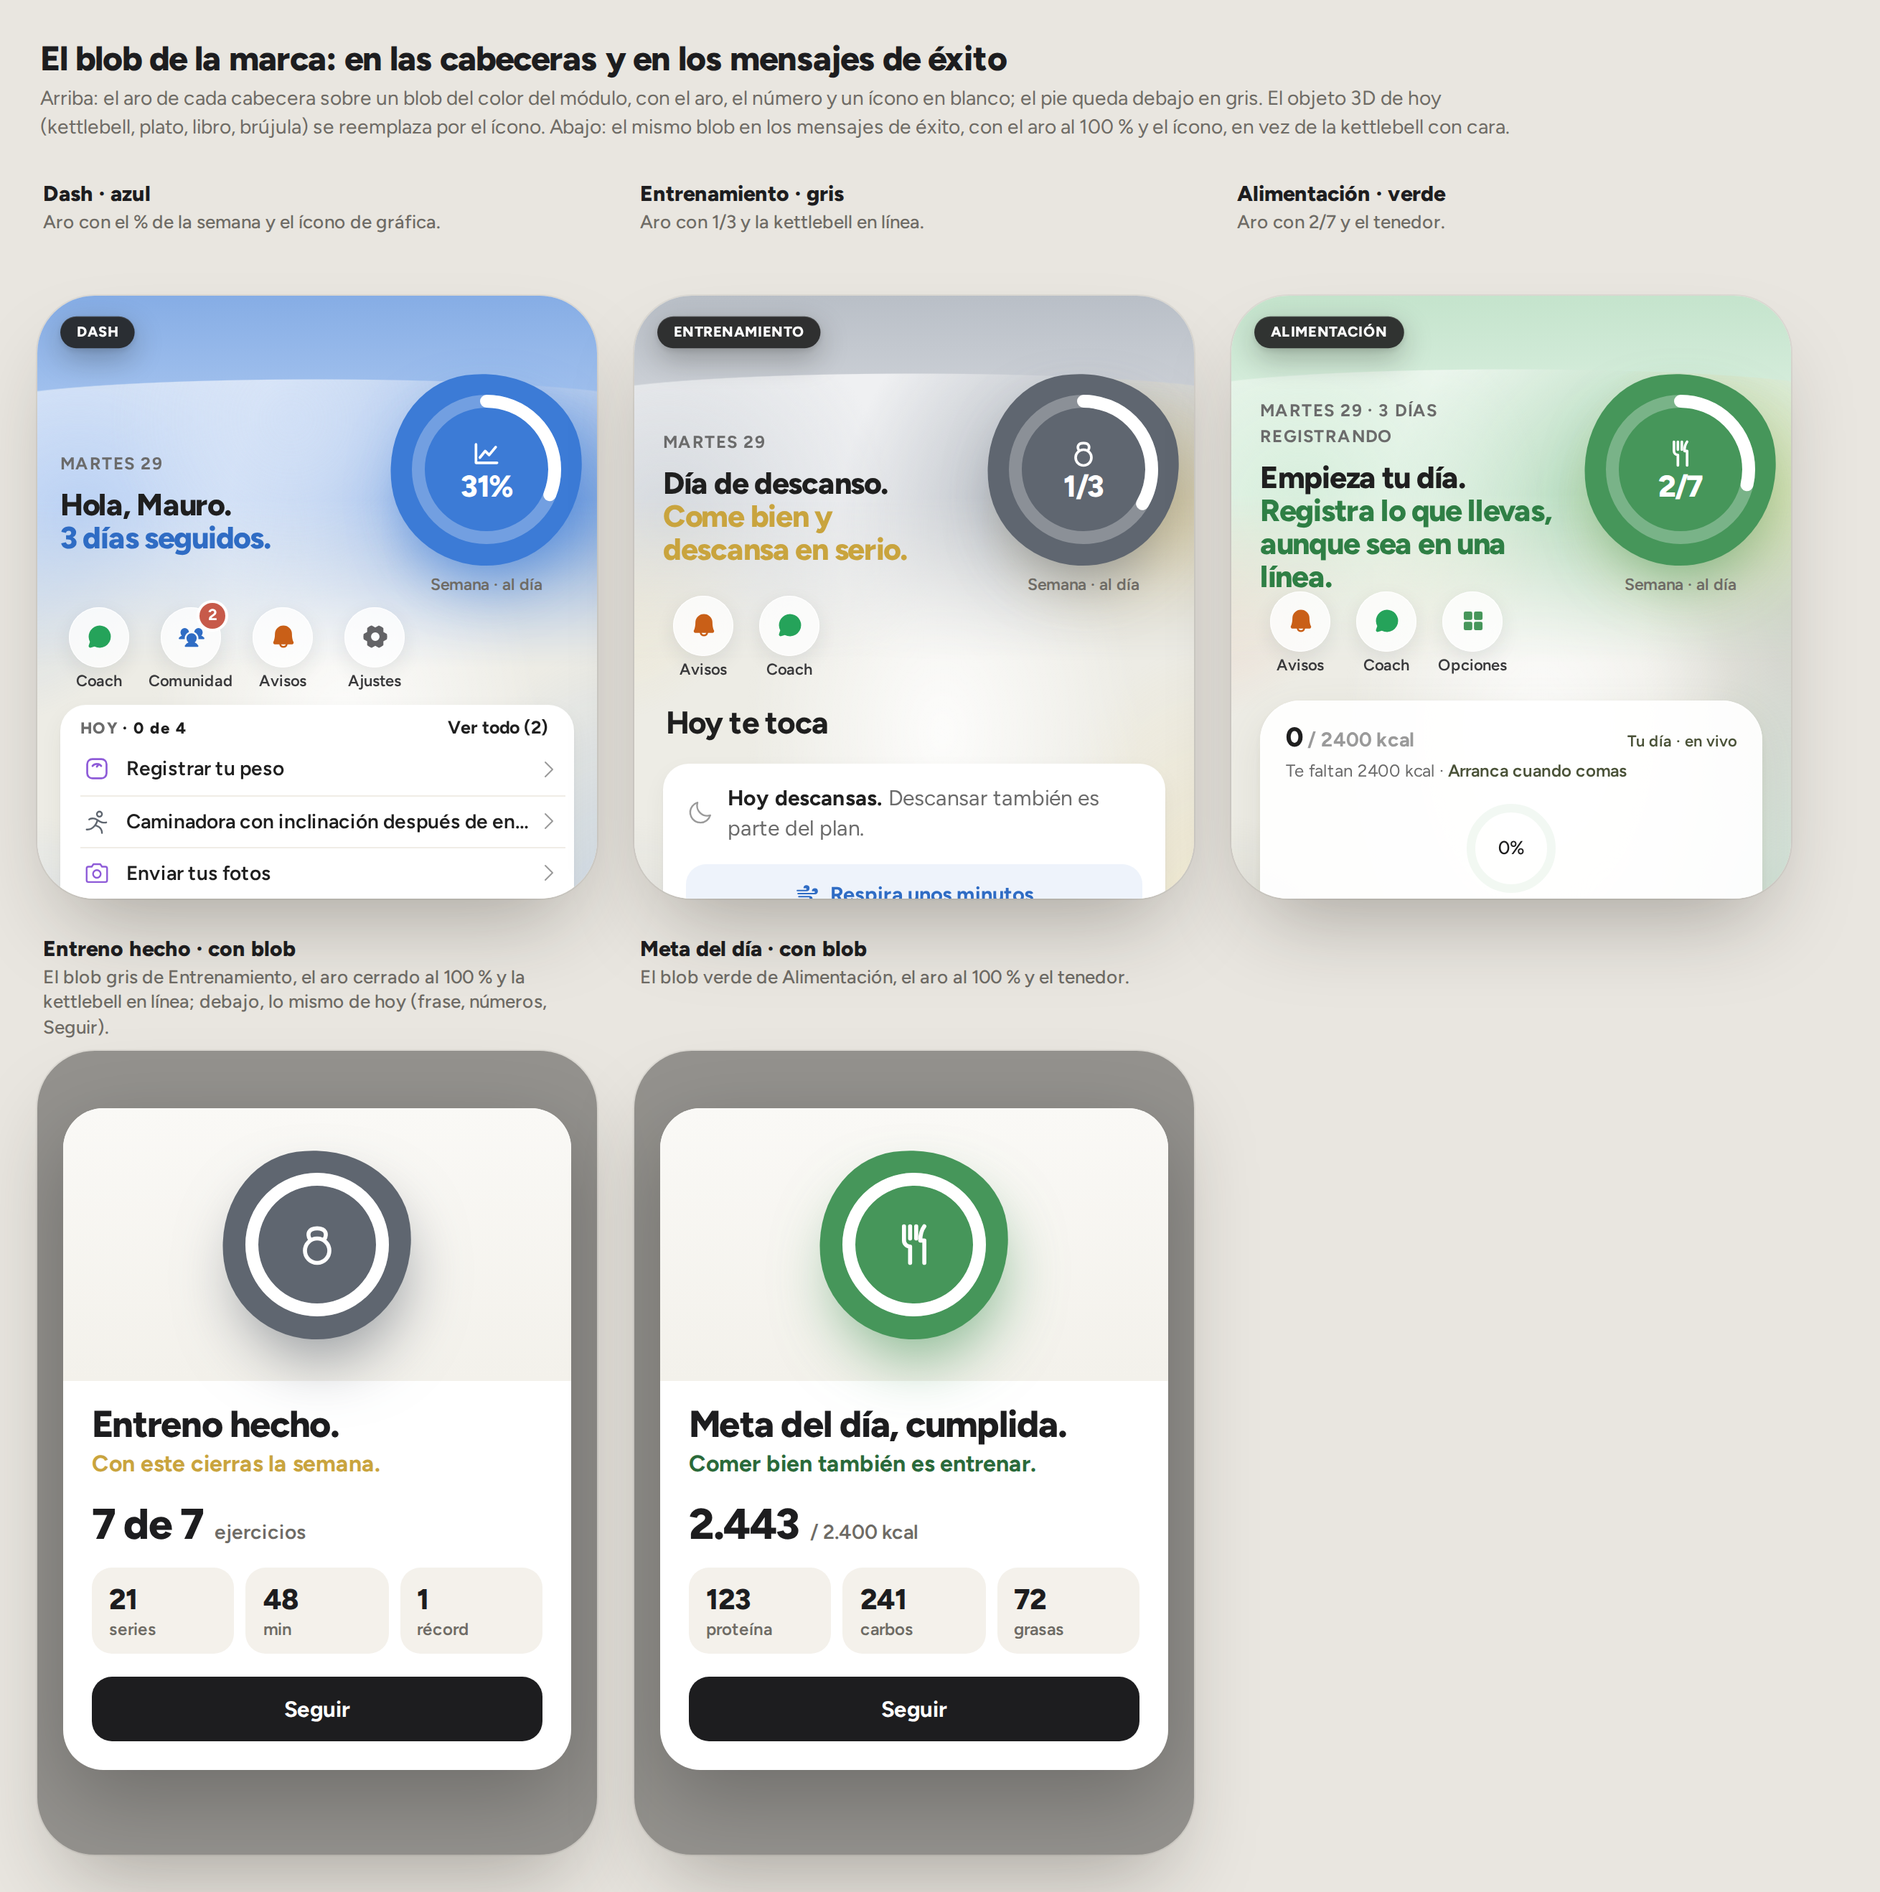
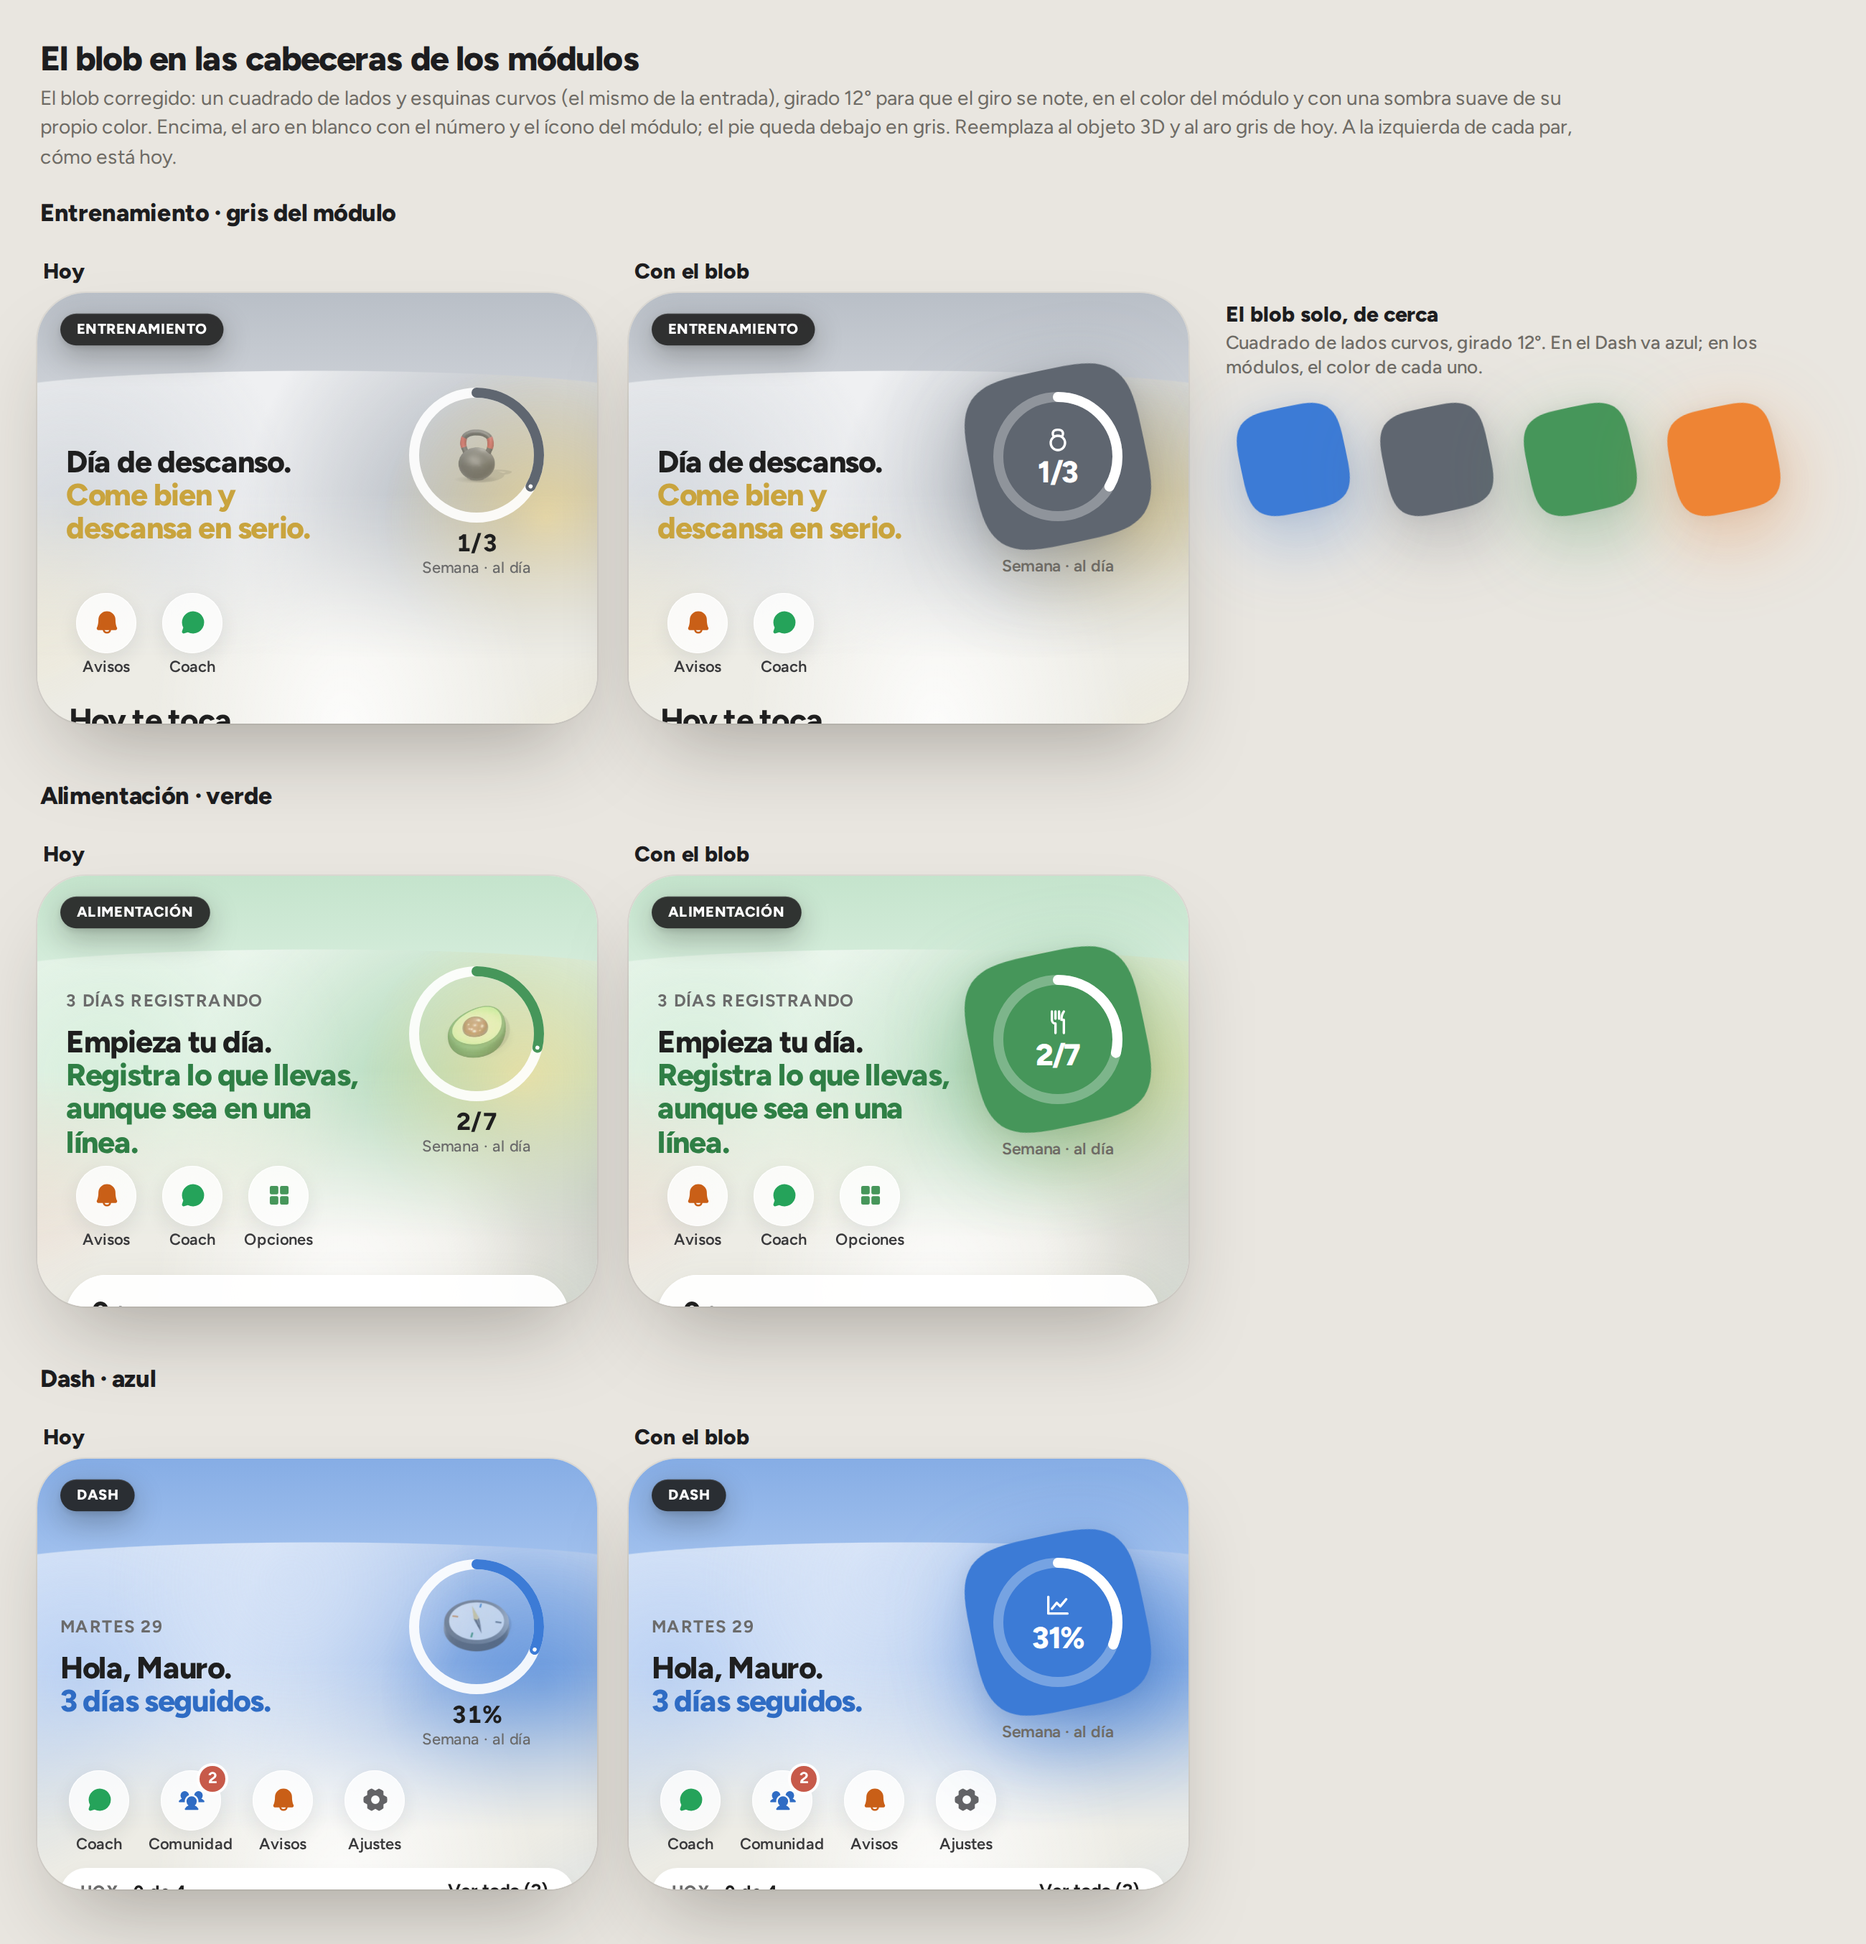
Fecha solo en la cabecera del Dash; blob de la entrada como cuadrado curvo girado 12°; propuesta del blob en cabeceras
Claude-Session: https://claude.ai/code/session_017q9eB3jcU4JAqbgUHmF9x1

diff --git a/index.html b/index.html
@@ -285,13 +285,11 @@
       #splash2 .m3 { background: radial-gradient(closest-side, rgba(70,150,90,.42), rgba(70,150,90,0)); border-radius: 44% 56% 58% 42% / 52% 48% 52% 48%; --x: -160px; --y: 330px; --s: 1.25; }
       #splash2 .m4 { background: radial-gradient(closest-side, rgba(238,132,52,.4), rgba(238,132,52,0)); border-radius: 52% 48% 46% 54% / 44% 56% 46% 54%; --x: 165px; --y: 300px; --s: 1.15; }
       #splash2 .velo { position: absolute; inset: 0; opacity: 0; background: radial-gradient(70% 38% at 50% var(--centro, 46%), rgba(255,255,255,.92), rgba(255,255,255,0) 70%); }
-      /* Detrás del ícono: un blob blanco (cuadrado de esquinas muy redondas,
-         un poco girado), sólido y con sombra suave, en vez del círculo. */
-      #splash2 .disco { position: absolute; left: 50%; top: var(--centro, 46%); width: 180px; height: 180px; margin: -90px 0 0 -90px;
-        border-radius: 46% 54% 50% 50% / 52% 46% 54% 48%;
-        background: #FFFFFF;
-        box-shadow: 0 24px 50px rgba(30,30,40,.16), 0 4px 12px rgba(30,30,40,.06);
-        opacity: 0; transform: rotate(-8deg) scale(.55); will-change: transform, opacity; }
+      /* Detrás del ícono: el blob de la marca, un cuadrado de lados y
+         esquinas curvos (superelipse) girado 12°, blanco y con sombra suave. */
+      #splash2 .disco { position: absolute; left: 50%; top: var(--centro, 46%); width: 184px; height: 184px; margin: -92px 0 0 -92px; overflow: visible;
+        filter: drop-shadow(0 22px 34px rgba(30,30,40,.14)) drop-shadow(0 3px 8px rgba(30,30,40,.05));
+        opacity: 0; transform: rotate(-12deg) scale(.55); will-change: transform, opacity; }
       #splash2 .escena3d { position: absolute; left: 50%; top: var(--centro, 46%); width: 120px; height: 120px; margin: -60px 0 0 -60px; perspective: 500px; }
       #splash2 .marca { width: 120px; height: 120px; overflow: visible; opacity: 0; }
       #splash2 .traza { stroke-dasharray: 100 100; stroke-dashoffset: 100; }
@@ -322,7 +320,7 @@
       @keyframes s2sale { 0% { opacity: 0; transform: translate(0, 0) scale(.12); } 18% { opacity: 1; } 55% { transform: translate(calc(var(--x) * .7), calc(var(--y) * .7)) scale(calc(var(--s) * 1.08)); } 100% { opacity: 1; transform: translate(var(--x), var(--y)) scale(var(--s)); } }
       @keyframes s2respira { from { opacity: 1; transform: translate(var(--x), var(--y)) scale(var(--s)); } to { opacity: 1; transform: translate(var(--x), var(--y)) scale(calc(var(--s) * 1.08)); } }
       @keyframes s2aparece { to { opacity: 1; } }
-      @keyframes s2disco { to { opacity: 1; transform: rotate(-8deg) scale(1); } }
+      @keyframes s2disco { to { opacity: 1; transform: rotate(-12deg) scale(1); } }
       @keyframes s2traza { to { stroke-dashoffset: 0; } }
       @keyframes s2pop { to { transform: scale(1); } }
       @keyframes s2halo { 0% { transform: scale(.6); opacity: .7; } 100% { transform: scale(2.6); opacity: 0; } }
@@ -370,7 +368,7 @@
       <div class="escena">
         <div class="remolino"><div class="m m1"></div><div class="m m2"></div><div class="m m3"></div><div class="m m4"></div></div>
         <div class="velo"></div>
-        <div class="disco"></div>
+        <svg class="disco" viewBox="0 0 200 200" aria-hidden="true"><path fill="#FFFFFF" d="M200.0 100.0L199.8 127.7L199.2 139.8L198.2 149.1L196.8 156.9L195.0 163.6L192.7 169.4L190.0 174.6L186.9 179.2L183.3 183.3L179.2 186.9L174.6 190.0L169.4 192.7L163.6 195.0L156.9 196.8L149.1 198.2L139.8 199.2L127.7 199.8L100.0 200.0L72.3 199.8L60.2 199.2L50.9 198.2L43.1 196.8L36.4 195.0L30.6 192.7L25.4 190.0L20.8 186.9L16.7 183.3L13.1 179.2L10.0 174.6L7.3 169.4L5.0 163.6L3.2 156.9L1.8 149.1L0.8 139.8L0.2 127.7L0.0 100.0L0.2 72.3L0.8 60.2L1.8 50.9L3.2 43.1L5.0 36.4L7.3 30.6L10.0 25.4L13.1 20.8L16.7 16.7L20.8 13.1L25.4 10.0L30.6 7.3L36.4 5.0L43.1 3.2L50.9 1.8L60.2 0.8L72.3 0.2L100.0 0.0L127.7 0.2L139.8 0.8L149.1 1.8L156.9 3.2L163.6 5.0L169.4 7.3L174.6 10.0L179.2 13.1L183.3 16.7L186.9 20.8L190.0 25.4L192.7 30.6L195.0 36.4L196.8 43.1L198.2 50.9L199.2 60.2L199.8 72.3Z"/></svg>
         <!-- El ícono de la app: la línea de la gráfica es el cuerpo de la
              kettlebell, con el asa encima y el punto amarillo en la punta. -->
         <div class="escena3d"><svg class="marca" viewBox="0 0 512 512" fill="none" aria-hidden="true"><defs>

diff --git a/src/vozCoach.js b/src/vozCoach.js
@@ -102,8 +102,9 @@ const nombreParaFrase = (n) => {
 
 export function vozEntreno({ plan, hoy }) {
   const fase = plan && plan.fase;
-  // Solo el día: el «Semana 3 de 8» se quitó de todas las secciones.
-  const etiqueta = etiquetaDia(hoy);
+  // Sin etiqueta de fecha: el día ya se ve en el Dash; repetirlo en cada
+  // módulo sobra.
+  const etiqueta = undefined;
   if (!plan || !plan.ok || !fase) {
     return { etiqueta, a: 'Tu plan viene en camino.' };
   }
@@ -150,7 +151,8 @@ const VAS_BIEN = [
 // `hora` en 0–23. `kcal` lo comido hoy, `meta` la meta del día, `comidas`
 // cuántas registró hoy y `racha` los días seguidos registrando.
 export function vozComida({ hoy, hora, kcal = 0, meta = 0, comidas = 0, racha = 0 }) {
-  const etiqueta = etiquetaDia(hoy, racha >= 3 ? `${racha} días registrando` : '');
+  // Sin la fecha (ya está en el Dash); solo la racha, cuando la hay.
+  const etiqueta = racha >= 3 ? `${racha} días registrando`.toUpperCase() : undefined;
   if (!meta) return { etiqueta, a: 'Así va tu día.', b: delDia(V.sinMeta, hoy) };
   if (!comidas || kcal <= 0) {
     if (hora < 11) return { etiqueta, a: 'Buen día.', b: delDia(V.desayuno, hoy) };
@@ -177,7 +179,7 @@ const APRENDER = [
 
 // `avance`: undefined (cargando), null (sin datos) o { pct, vistas, total }.
 export function vozAprende({ hoy, avance, quedan = 0 }) {
-  const etiqueta = etiquetaDia(hoy);
+  const etiqueta = undefined; // la fecha solo va en el Dash
   if (!avance) return { etiqueta, a: 'Tu aprendizaje.', b: delDia(APRENDER, hoy, 4) };
   if (avance.total && avance.vistas >= avance.total && !quedan) {
     return { etiqueta, a: 'Ya viste todo.', b: 'Lo nuevo aparece aquí primero.' };

diff --git a/src/CabeceraHoy.jsx b/src/CabeceraHoy.jsx
@@ -129,7 +129,7 @@ export default function CabeceraHoy({ tema = 'entreno', voz, titulo, firma = fal
       )}
       {voz ? (
         <h1 data-frase style={{
-          margin: '8px 0 0', fontSize: fondo ? (conAro ? 'clamp(20px, 5.5vw, 24px)' : 'clamp(24px, 6.8vw, 29px)') : 'clamp(27px, 7.6vw, 34px)', fontWeight: 800, lineHeight: 1.08,
+          margin: voz.etiqueta ? '8px 0 0' : 0, fontSize: fondo ? (conAro ? 'clamp(20px, 5.5vw, 24px)' : 'clamp(24px, 6.8vw, 29px)') : 'clamp(27px, 7.6vw, 34px)', fontWeight: 800, lineHeight: 1.08,
           letterSpacing: '-0.03em', color: TEXT, textWrap: 'balance', maxWidth: 460,
         }}>
           {voz.a}{voz.b && <><br /><span style={{ color: t.tinta }}>{voz.b}</span></>}

diff --git a/MARCA.md b/MARCA.md
@@ -49,7 +49,7 @@ Reglas:
   interlineado 1.02–1.1.
 - Texto: 14–15.5 px, peso 500–600. Secundario 12.5–13 px.
 - Etiquetas pequeñas en mayúsculas: 11–12 px, peso 800, `letter-spacing 0.06em`
-  («MARTES 29 · SEMANA 3 DE 8», «HOY · 1 de 4»).
+  («MARTES 29», solo en el Dash; «HOY · 1 de 4»).
 - Números grandes: peso 800, `tabular-nums`, separador de miles con punto y
   decimales con coma (`toLocaleString('es-CO')`): 2.443, 82,4 kg.
 
